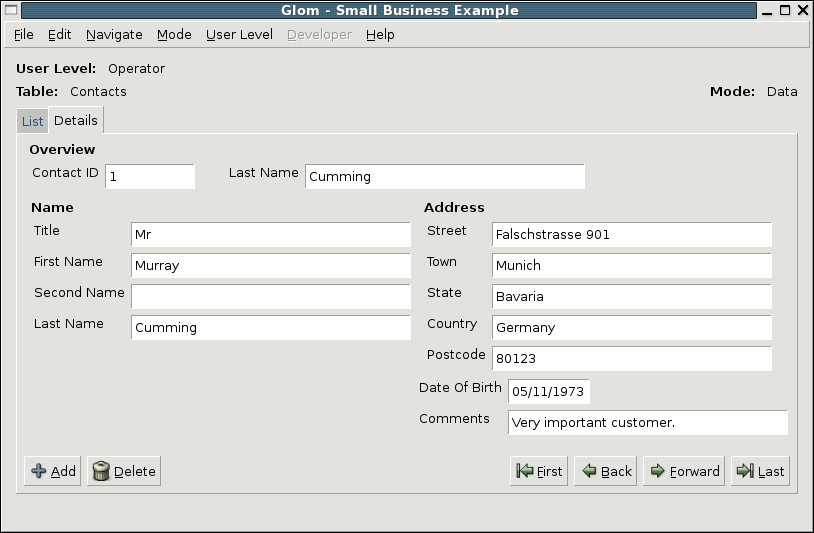
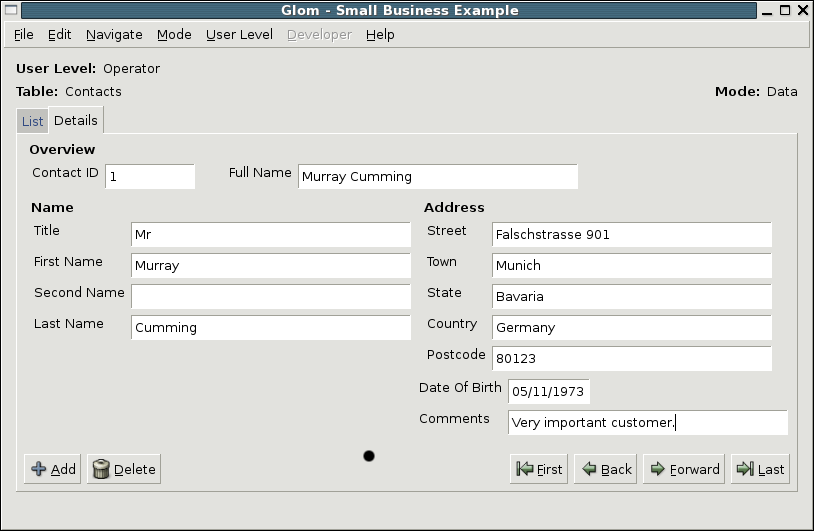
Updated some screenshots and pictures.
2005-04-14  Murray Cumming <murrayc@murrayc.com>

        * docs/website/screenshots/glom_data_details.png:
        * docs/website/screenshots/glom_design_layout_field_formatting.png:
        * docs/website/screenshots/glom_select_field.png:
        * docs/website/screenshots/index.html:
        Updated some screenshots and pictures.
        * glom/mode_data/box_data.cc:
        * glom/mode_data/box_data.h:
        Added get_record_field_values(), get_calculated_fields(), and
        do_calculations() which use them.
        * glom/mode_data/box_data_details.cc: on_flowtable_field_changed():
        * glom/mode_data/box_data_list.cc: on_adddel_user_changed():
        Call do_calculations() to update calculated field values.

diff --git a/docs/website/screenshots/index.html b/docs/website/screenshots/index.html
@@ -34,6 +34,7 @@
 <li><a href="#developer_layout_details_related">Designing the Details Layout - Related Records</a></li>
 <li><a href="#developer_layout_list">Designing the List Layout</a></li>
 <li><a href="#developer_layout_related_fields">Designing the Layout - Related Fields</a></li>
+<li><a href="#developer_layout_field_formatting">Designing the Layout - Formatting</a></li>
 <li><a href="#developer_groups">Designing Users and Groups</a></li>
 </ul>
 </p>
@@ -105,7 +106,7 @@
   <p>You can specify whether the relationship should automatically create related records. For instance,
 <ul>
 <li>You would want to automatically create new Invoice Lines from the Invoice details, via the <a href="developer_layout_details_related">related records</a>, without first creating the records in the Invoice Lines table itself.</li>
-<li>When you show the customer's name on the Invoice, using a <a href="developer_layout_related_fields">related field</a>, you probably don't want to create a new customer record by entering data in to the related field. Of course, if you don't even want to edit an existing customer name record via the Invoice then you can just make the <a href="developer_layout_related_fields">related field</a> non-editable.</li>
+<li>When you show the customer's name on the Invoice, using a <a href="developer_layout_related_fields">related field</a>, you probably don't want to create a new customer record by entering data in to the related field. Of course, if you don't even want to edit an existing customer name record via the Invoice then you can just make the <a href="developer_layout_related_fields">related field</a> <a href="#developer_layout_field_formatting">non-editable</a>.</li>
 
 <h3><a name="developer_layout_details" />Designing the Details Layout</h3>
 
@@ -113,7 +114,7 @@
   <p>There are no complicated display options - dates and times are displayed and interpreted appropriately according to the user's current locale, but are always stored in the database in standard ISO format. And boolean fields are represented by a check box.</p>
    <p>You can arrange fields and related records in groups which are layed out automatically, instead of wasting time with difficult manual positioning. This also allows your layout to be displayed in different languages and fonts, without manual changes.</p> 
    <p>You can can choose who may view or edit records in this table, as well as who may create or delete records, by <a href="#developer_groups">designing the users and groups</a>.</p>
-   <p>For numeric <a href="#developer_fields">fields</a>, you can specify formatting, such as a currency symbol, or the number of decimal places to show.</p>
+   <p>For numeric <a href="#developer_fields">fields</a>, you can specify <a href="#developer_layout_field_formatting">formatting</a>, such as a currency symbol, or the number of decimal places to show.</p>
 
 <h3><a name="developer_layout_details_related" />Designing the Details Layout - Related Records</h3>
 
@@ -130,6 +131,12 @@
   <img src="glom_design_layout_details_related_fields.png" />
   <p>Both the Details and List layouts may contain fields from related tables. Just choose the <a href="#developer_relationships">relationship</a>, and then choose from the list of fields in the related table.</p>
   <p>Note that you can prevent editing of fields. For instance, maybe you don't want to edit the customer's name via the Invoice details, because this would then be seen on every other Invoice for that customer.</p>
+
+<h3><a name="developer_layout_field_formatting" />Designing the Layout - Formatting</h3>
+
+  <img src="glom_design_layout_field_formatting.png" />
+  <p>The default formatting for your locale is usually acceptable, but sometimes you need to make small changes. For instance, for a number field, you might want to show only two decimal places, or not show the thousands separator. Or you might want to show a currency symbol.</p>
+  <p>You can also prevent editing of fields. For instance, maybe you don't want to edit the customer's name via the Invoice details, because this would then be seen on every other Invoice for that customer.</p>
 
 <h3><a name="developer_groups" />Designing Users and Groups</h3>
 

diff --git a/glom/mode_data/box_data.cc b/glom/mode_data/box_data.cc
@@ -23,6 +23,7 @@
 #include "../data_structure/layout/layoutitem_field.h"
 #include "../python_embed/glom_python.h"
 #include <bakery/App/App_Gtk.h> //For util_bold_message().
+#include <algorithm> //For std::find()
 #include <libxslt/transform.h>
 #include "config.h"
 #include <glibmm/i18n.h>
@@ -101,20 +102,48 @@ void Box_Data::on_Button_Find()
   signal_find.emit(get_WhereClause());
 }
 
-Box_Data::type_map_fields Box_Data::get_record_field_values(const Gnome::Gda::Value& /* primary_key_value */)
+Box_Data::type_map_fields Box_Data::get_record_field_values(const Gnome::Gda::Value& primary_key_value)
 {
   type_map_fields field_values;
+
+  Field fieldPrimaryKey;
+  get_field_primary_key(fieldPrimaryKey);
 
   Document_Glom* document = get_document();
   if(document)
   {
+    //TODO: Cache the list of all fields, as well as caching (m_Fields) the list of all visible fields:
     const Document_Glom::type_vecFields fields = document->get_table_fields(m_strTableName);
+
+    //TODO: This seems silly. We should just have a build_sql_select() that can take this container:
+    type_vecLayoutFields fieldsToGet;
     for(Document_Glom::type_vecFields::const_iterator iter = fields.begin(); iter != fields.end(); ++iter)
     {
-      Gnome::Gda::Value example_value = GlomConversions::get_example_value(iter->get_glom_type());
-      field_values[iter->get_name()] = example_value;
+      LayoutItem_Field layout_item;
+      layout_item.set_name(iter->get_name());
+      layout_item.m_field = *iter;
+      fieldsToGet.push_back(layout_item);
+    }
+
+    const Glib::ustring query = build_sql_select(m_strTableName, fieldsToGet, fieldPrimaryKey, primary_key_value);
+    Glib::RefPtr<Gnome::Gda::DataModel> data_model = Query_execute(query);
+
+    if(data_model && data_model->get_n_rows())
+    {
+      int col_index = 0;
+      for(Document_Glom::type_vecFields::const_iterator iter = fields.begin(); iter != fields.end(); ++iter)
+      {
+        //There should be only 1 row. Well, there could be more but we will ignore them.
+        field_values[iter->get_name()] = data_model->get_value_at(col_index, 0);
+        ++col_index;
+      }
+    }
+    else
+    {
+      handle_error();
     }
   }
+
   return field_values;
 }
 
@@ -517,6 +546,29 @@ Box_Data::type_vecLayoutFields Box_Data::get_related_fields(const Glib::ustring&
   return result;
 }
 
+Box_Data::type_vecLayoutFields Box_Data::get_calculated_fields(const Glib::ustring& field_name) const
+{
+  type_vecLayoutFields result;
+
+  const Document_Glom* document = dynamic_cast<const Document_Glom*>(get_document());
+  if(document)
+  {
+    //TODO: examine all fields, not just the the shown fields (m_Fields):
+    for(type_vecLayoutFields::const_iterator iter = m_Fields.begin(); iter != m_Fields.end();  ++iter)
+    {
+      const Field& field = iter->m_field;
+
+      //Does this field's calculation use the field?
+      const Field::type_list_strings fields_triggered = field.get_calculation_fields();
+      Field::type_list_strings::const_iterator iterFind = std::find(fields_triggered.begin(), fields_triggered.end(), field_name);
+      if(iterFind != fields_triggered.end())
+        result.push_back(*iter);
+    }
+  }
+
+  return result;
+}
+
 /** Get the fields whose values should be looked up when @a field_name changes, with
  * the relationship used to lookup the value.
  */
@@ -527,6 +579,7 @@ Box_Data::type_list_lookups Box_Data::get_lookup_fields(const Glib::ustring& fie
   const Document_Glom* document = dynamic_cast<const Document_Glom*>(get_document());
   if(document)
   {
+    //TODO: examine all fields, not just the the shown fields (m_Fields):
     for(type_vecLayoutFields::const_iterator iter = m_Fields.begin(); iter != m_Fields.end();  ++iter)
     {
       const Field& field = iter->m_field;
@@ -580,7 +633,41 @@ Gnome::Gda::Value Box_Data::get_lookup_value(const Relationship& relationship, c
 
   return result;
 }
-  
+
+void Box_Data::do_calculations(const LayoutItem_Field& field_changed, const Field& primary_key, const Gnome::Gda::Value& primary_key_value)
+{
+  //TODO_Performance: This is profoundly inefficient:
+
+  //Recalculate fields that are triggered by a change of this field's value:
+  const type_vecLayoutFields calculated_fields = get_calculated_fields(field_changed.get_name());
+  for(type_vecLayoutFields::const_iterator iter = calculated_fields.begin(); iter != calculated_fields.end(); ++iter)
+  {
+    //recalculate:
+     const type_map_fields field_values = get_record_field_values(primary_key_value);
+     Gnome::Gda::Value value = glom_evaluate_python_function_implementation(iter->m_field.get_glom_type(), iter->m_field.get_calculation(), field_values);
+
+    //show it:
+    set_entered_field_data(*iter, value);
+
+    //Add it to the database (even if it is not shown in the view)
+    set_field_value_in_database(*iter, value, primary_key, primary_key_value);
+  }
+}
+
+void Box_Data::set_field_value_in_database(const LayoutItem_Field& field_layout, const Gnome::Gda::Value& field_value, const Field& primary_key, const Gnome::Gda::Value& primary_key_value)
+{
+  const Field& field = field_layout.m_field;
+
+  const Glib::ustring field_name = field_layout.get_name();
+  if(!field_name.empty()) //This should not happen.
+  {
+    Glib::ustring strQuery = "UPDATE " + m_strTableName;
+    strQuery += " SET " + field_name + " = " + field.sql(field_value);
+    strQuery += " WHERE " + primary_key.get_name() + " = " + primary_key.sql(primary_key_value);
+    Query_execute(strQuery);  //TODO: Handle errors
+  }
+}
+
 Document_Glom::type_mapLayoutGroupSequence Box_Data::get_data_layout_groups(const Glib::ustring& layout)
 {
   Document_Glom::type_mapLayoutGroupSequence layout_groups;

diff --git a/glom/mode_data/box_data_details.cc b/glom/mode_data/box_data_details.cc
@@ -24,6 +24,7 @@
 #include "../data_structure/glomconversions.h"
 #include "dialog_layout_details.h"
 #include <bakery/App/App_Gtk.h> //For util_bold_message().
+#include "../python_embed/glom_python.h"
 #include <libgnomevfsmm.h>
 #include <libgnome/gnome-url.h>
 #include <sstream> //For stringstream
@@ -55,10 +56,10 @@ Box_Data_Details::Box_Data_Details(bool bWithNavButtons /* = true */)
       m_pDialogLayout->signal_hide().connect( sigc::mem_fun(static_cast<Box_Data&>(*this), &Box_Data::on_dialog_layout_hide) );
     }
   }
-  
+
   m_FlowTable.set_columns_count(1); //Sub-groups will have multiple columns (by default, there is one sub-group, with 2 columns).
   m_FlowTable.set_padding(6);
-  
+
   m_strHint = _("When you change the data in a field the database is updated immediately.\n Click [New] to add a new record.\n Leave automatic ID fields empty - they will be filled for you.");
 
 
@@ -595,6 +596,9 @@ void Box_Data_Details::on_flowtable_field_edited(const LayoutItem_Field& layout_
         //Get-and-set values for lookup fields, if this field triggers those relationships:
         do_lookups(layout_field, field_value, primary_key_field, primary_key_value);
 
+        //Recalculate calculated fields, if this field is used by them:
+        do_calculations(layout_field, primary_key_field, primary_key_value);
+
         //Show new values for related fields:
         refresh_related_fields(layout_field, field_value, primary_key_field, primary_key_value);
 
@@ -714,13 +718,13 @@ void Box_Data_Details::do_lookups(const LayoutItem_Field& field_changed, const G
    //Get values for lookup fields, if this field triggers those relationships:
    //TODO_performance: There is a LOT of iterating and copying here.
    const Glib::ustring strFieldName = field_changed.get_name();
-   type_list_lookups lookups = get_lookup_fields(strFieldName);
+   const type_list_lookups lookups = get_lookup_fields(strFieldName);
    for(type_list_lookups::const_iterator iter = lookups.begin(); iter != lookups.end(); ++iter)
    {
-     const LayoutItem_Field& layout_Item = iter->first;
+     const LayoutItem_Field& layout_item = iter->first;
 
      const Relationship relationship = iter->second;
-     const Field& field_lookup = layout_Item.m_field;
+     const Field& field_lookup = layout_item.m_field;
      const Glib::ustring field_lookup_name = field_lookup.get_name();
 
      Field field_source;
@@ -730,21 +734,15 @@ void Box_Data_Details::do_lookups(const LayoutItem_Field& field_changed, const G
        Gnome::Gda::Value value = get_lookup_value(iter->second /* relationship */,  field_source /* the field to look in to get the value */, field_value /* Value of to and from fields */);
 
        //Add it to the view:
-       LayoutItem_Field layout_item;
-       layout_item.set_name(field_lookup_name);
        //TODO? layout_item.set_relationship_name();
-       m_FlowTable.set_field_value(layout_item, value);
+       set_entered_field_data(layout_item, value);
 
        //Add it to the database (even if it is not shown in the view)
-       Glib::ustring strQuery = "UPDATE " + m_strTableName;
-       strQuery += " SET " + field_lookup_name + " = " + field_lookup.sql(value);
-       strQuery += " WHERE " + primary_key.get_name() + " = " + primary_key.sql(primary_key_value);
-       Query_execute(strQuery);  //TODO: Handle errors
+       set_field_value_in_database(layout_item, value, primary_key, primary_key_value);
 
        //TODO: Handle lookups triggered by these fields (recursively)? TODO: Check for infinitely looping lookups.
      }
    }
-
 }
 
 void Box_Data_Details::on_userlevel_changed(AppState::userlevels user_level)

diff --git a/glom/mode_data/box_data.h b/glom/mode_data/box_data.h
@@ -82,6 +82,10 @@ protected:
    */
   type_list_lookups get_lookup_fields(const Glib::ustring& field_name) const;
 
+  /** Get the fields whose values should be recalculated when @a field_name changes.
+   */
+  type_vecLayoutFields get_calculated_fields(const Glib::ustring& field_name) const;
+
   /** Get the fields that are in related tables, via a relationship using @a field_name changes.
   */
   type_vecLayoutFields get_related_fields(const Glib::ustring& field_name) const;
@@ -89,6 +93,9 @@ protected:
   /** Get the value of the @a source_field from the @a relationship, using the @a key_value.
    */
   Gnome::Gda::Value get_lookup_value(const Relationship& relationship, const Field& source_field, const Gnome::Gda::Value & key_value);
+
+  virtual void do_calculations(const LayoutItem_Field& field_changed, const Field& primary_key, const Gnome::Gda::Value& primary_key_value);
+  void set_field_value_in_database(const LayoutItem_Field& field_layout, const Gnome::Gda::Value& field_value, const Field& primary_key, const Gnome::Gda::Value& primary_key_value);
 
   virtual bool record_delete(const Gnome::Gda::Value& primary_key_value);
   virtual Glib::RefPtr<Gnome::Gda::DataModel> record_new(bool use_entered_data = true, const Gnome::Gda::Value& primary_key_value = Gnome::Gda::Value()); //New record with all entered field values.

diff --git a/glom/mode_data/box_data_list.cc b/glom/mode_data/box_data_list.cc
@@ -432,6 +432,9 @@ void Box_Data_List::on_adddel_user_changed(const Gtk::TreeModel::iterator& row, 
         //Get-and-set values for lookup fields, if this field triggers those relationships:
         do_lookups(row, layout_field, field_value, primary_key_field, primary_key_value);
 
+        //Recalculate calculated fields, if this field is used by them:
+        do_calculations(layout_field, primary_key_field, primary_key_value);
+
         //Update related fields, if this field is used in the relationship:
         refresh_related_fields(row, layout_field, field_value, primary_key_field, primary_key_value);
       }

diff --git a/glom/data_structure/field.cc b/glom/data_structure/field.cc
@@ -167,6 +167,9 @@ Glib::ustring Field::get_title_or_name() const
 
 Glib::ustring Field::sql(const Gnome::Gda::Value& value) const
 {
+//g_warning("Field::sql: glom_type=%d", get_glom_type());
+
+
   if(value.is_null())
   {
     switch(get_glom_type())
@@ -180,6 +183,12 @@ Glib::ustring Field::sql(const Gnome::Gda::Value& value) const
       case(TYPE_TIME):
       case(TYPE_NUMERIC):
       {
+        return "NULL";
+        break;
+      }
+      case(TYPE_INVALID):
+      {
+        g_warning("Field::sql(): The field type is INVALID.");
         return "NULL";
         break;
       }
